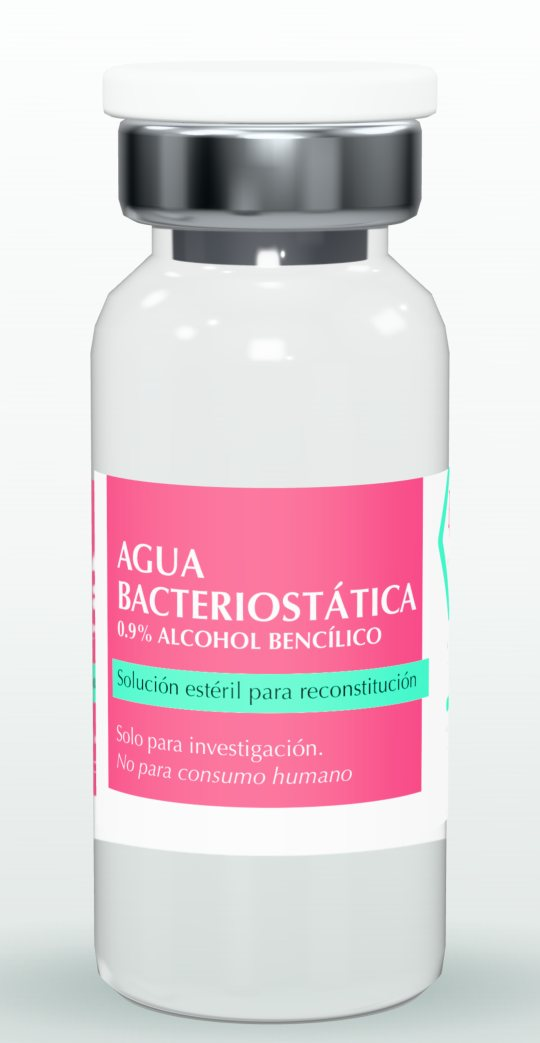
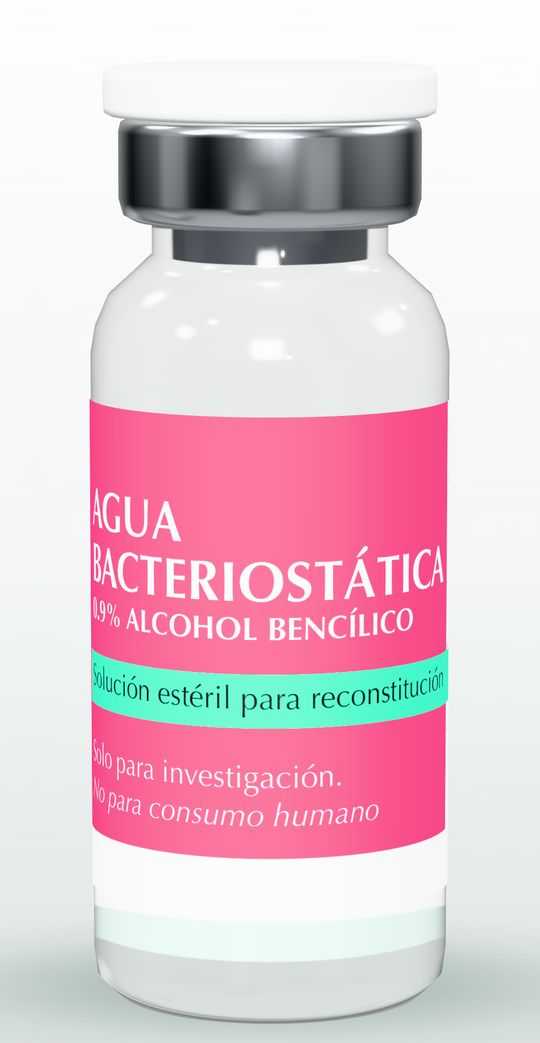
El agua bacteriostática, en su vial de 3 ml
El render la dibujaba en vial de 10 ml, a escala 1.38, por un supuesto que
el inventario de la tienda desmiente: el producto vivo es
`agua-bacteriostatica-3ml`. Pasa a escala 1.0, que es el mismo vidrio de
16 × 39 mm que los péptidos —radio interior 6.9 mm y suelo en y = 3, o sea
4.6 ml a ras y unos 3 ml de llenado nominal—, y con eso queda en su envase
real.

De paso, dos cosas que salieron al mirarlo de cerca:

- **Salía vacío.** Un producto que es una solución no puede renderizarse
  como vidrio hueco. La escena gana un parámetro `ml` y el alto de la
  columna sale de la cuenta y no a ojo: 6.686 mm por mililitro, así que
  3 ml llenan 20.1 mm.

  El material va opaco, que es contraintuitivo para agua. `transmission`
  en three.js se resuelve muestreando un búfer de lo opaco, de modo que un
  líquido transmisivo dentro de un vidrio transmisivo sale invisible
  —comprobado: cero píxeles de diferencia contra el render sin líquido—.
  Lo que sí se ve a través del vidrio es lo opaco, que es por lo que la
  torta liofilizada funciona. El agua va entonces opaca pero fría y con
  especular alto, que es lo que la separa de la torta, mate y crema.

  Se ve poco, y es correcto que se vea poco: la etiqueta de 22 mm cubre de
  y = 5 a y = 27 y el menisco queda a y = 23, detrás del papel. Lo que
  asoma es la banda de 2 mm entre la base de la etiqueta y el suelo.

- **La ficha decía «liofilizado · 99 % HPLC»** también para el agua, que no
[…]

Changed region(s): [[0.1481, 0.3682, 0.8296, 0.9204]]

diff --git a/rediseno/mocks/generar-vial-3d.html b/rediseno/mocks/generar-vial-3d.html
@@ -78,6 +78,28 @@ const cake = new THREE.Mesh(
 cake.position.y = 3.0 + 2.75;
 vialG.add(cake);
 
+// ── Líquido, para los productos que vienen en solución y no liofilizados.
+// El interior del vial es un cilindro de radio 6.9 con el suelo en y = 3, así
+// que el alto de la columna sale de la cuenta y no a ojo:
+//     h = V / (pi * 6.9^2) = 6.686 mm por mililitro
+// El radio va 0.03 mm por dentro de la pared para que no pelee con el vidrio.
+const R_INT = 6.9, Y_SUELO = 3.0;
+const MM_POR_ML = 1000 / (Math.PI * R_INT * R_INT);
+const liquido = new THREE.Mesh(
+  new THREE.CylinderGeometry(R_INT - 0.03, R_INT - 0.03, 1, 96),
+  // Opaco a propósito. three.js resuelve `transmission` muestreando un búfer
+  // de lo opaco, así que un líquido transmisivo dentro del vidrio transmisivo
+  // sale invisible: comprobado, cero píxeles de diferencia. Lo que sí se ve a
+  // través del vidrio es lo opaco —por eso la torta liofilizada funciona—, así
+  // que el agua va opaca pero fría y con brillo especular alto, que es lo que
+  // la separa de la torta (mate y crema).
+  new THREE.MeshPhysicalMaterial({
+    color: 0xe6f4f0, metalness: 0, roughness: 0.04,
+    clearcoat: 1, clearcoatRoughness: 0.02, ior: 1.333, envMapIntensity: 1.7,
+  }));
+liquido.visible = false;
+vialG.add(liquido);
+
 // ── Tapón de bromobutilo
 const stop = new THREE.Mesh(
   new THREE.CylinderGeometry(3.42, 3.42, 6.0, 64),
@@ -151,7 +173,7 @@ const rim = new THREE.DirectionalLight(0xffffff, 1.3); rim.position.set(46, 30, 
 const fill = new THREE.DirectionalLight(0xffffff, 0.7); fill.position.set(14, 12, 64); scene.add(fill);
 
 const LW_MM = 43, R_BASE = 8.06;
-window.__vial = async (url, conTorta, u0, escala) => {
+window.__vial = async (url, conTorta, u0, escala, ml) => {
   const s = escala || 1;
   vialG.scale.setScalar(s);
   const R = R_BASE * s, arco = LW_MM / R;
@@ -168,6 +190,13 @@ window.__vial = async (url, conTorta, u0, escala) => {
   label.material.map = t;
   label.material.needsUpdate = true;
   cake.visible = conTorta !== false;   // el agua bacteriostática no lleva torta
+  // los productos en solución llevan su volumen real dentro, no vidrio vacío
+  liquido.visible = ml > 0;
+  if (ml > 0) {
+    const h = ml * MM_POR_ML;
+    liquido.scale.set(1, h, 1);
+    liquido.position.y = Y_SUELO + h / 2;
+  }
   // el título no está en el mismo sitio en todas las etiquetas: se gira la
   // etiqueta para dejarlo al frente en vez de asumir u=0.25 para todas
 

diff --git a/rediseno/home.html b/rediseno/home.html
@@ -781,8 +781,12 @@ footer{border-top:1px solid var(--linea-2);background:var(--carbon);padding-bloc
         '</div>' +
         '<div class="cuerpo"><h3>' + p.nombre + '</h3>' +
           '<div class="sku">SKU ' + (p.sku || "—") + '</div></div>' +
-        '<div class="specs"><span>' + (p.frasco ? "suplemento" : "liofilizado") + '</span>' +
-          '<span>·</span><span>' + (p.frasco ? "cápsulas" : "99 % HPLC") + '</span>' +
+        '<div class="specs"><span>' +
+          (p.frasco ? "suplemento" : p.ml ? "solución" : "liofilizado") + '</span>' +
+          '<span>·</span><span>' +
+          /* el agua bacteriostática no es un liofilizado ni tiene pureza por
+             HPLC: lo que la describe es su volumen */
+          (p.frasco ? "cápsulas" : p.ml ? p.ml + " ml" : "99 % HPLC") + '</span>' +
           '<span>·</span><span>' + (agotado ? "sin existencia" : "en existencia") + '</span></div>' +
         '<div class="compra"><span class="precio">' + mxn(p.precio) + '<small>MXN</small></span>' +
           '<button class="add" type="button"' + (agotado ? ' disabled' : '') + '>' +

diff --git a/rediseno/mocks/lote.js b/rediseno/mocks/lote.js
@@ -16,7 +16,8 @@ const catalogo = JSON.parse(fs.readFileSync('catalogo.json', 'utf8'));
   for (let i = 0; i < catalogo.length; i++) {
     const c = catalogo[i];
     const t0 = Date.now();
-    await p.evaluate(([u, t, r, e]) => window.__vial(u, t, r, e), [c.archivo, !c.agua, c.u0, c.escala]);
+    await p.evaluate(([u, t, r, e, m]) => window.__vial(u, t, r, e, m),
+                     [c.archivo, !c.agua, c.u0, c.escala, c.ml]);
     const salida = 'vial-' + c.archivo.replace(/^label_/, '').replace(/\.png$/, '') + '.png';
     await p.locator('#c').screenshot({ path: salida });
     console.log(`[${i + 1}/${catalogo.length}] ${salida}  (${Math.round((Date.now() - t0) / 1000)}s)`);

diff --git a/rediseno/js/catalogo-pys.js b/rediseno/js/catalogo-pys.js
@@ -305,6 +305,7 @@ const PYS_PRODUCTOS = [
   "cat": "Muscular",
   "img": "img/vial-agua-bacteriostatica-0-9-alcohol-bencilico.jpg",
   "frasco": false,
+  "ml": 3,
   "precio": 180
  },
  {

diff --git a/rediseno/mocks/README.md b/rediseno/mocks/README.md
@@ -30,8 +30,11 @@ que deja el bloque de texto de frente.
    `computeVertexNormals()` sobre las geometrías torneadas. `LatheGeometry` ya
    resuelve el empalme y esa llamada lo rompe. Se quitó.
 2. **Vial demasiado corto.** Con 35 mm de alto, una etiqueta de 22 mm se comía
-   toda la pared recta y quedaba pegada a la base. El vial pasa a 39 mm (5 ml),
-   con 27 mm de pared recta: sobran 3 mm de vidrio abajo y 2 arriba.
+   toda la pared recta y quedaba pegada a la base. El vial pasa a 39 mm, con
+   27 mm de pared recta: sobran 3 mm de vidrio abajo y 2 arriba. Con radio
+   interior de 6.9 mm y suelo en y = 3, eso da 4.6 ml a ras y unos 3 ml de
+   llenado nominal: el mismo vidrio sirve para los péptidos liofilizados y
+   para el agua bacteriostática de 3 ml.
 3. **Fondo oscuro.** El vidrio transparente sobre negro lee negro, por
    definición: no hay nada que transmitir. Las fotos de la competencia están
    sobre blanco, y por eso su vidrio se ve limpio. El estudio pasó a claro y con
@@ -59,6 +62,25 @@ y el render sale a 2000 × 2880 para que aguante el zoom.
 **La cámara tiene que ir por encima del sello** (y 43 contra los 37.3 de la tapa).
 Por debajo se ve el engaste desde abajo y el botón desaparece tras el borde: eso,
 y no el modelado, era lo que hacía que la tapa se viera rara.
+
+### El líquido
+
+Los productos en solución llevan su volumen dentro, no vidrio vacío. El alto de
+la columna sale de la cuenta y no a ojo: con radio interior de 6.9 mm y el suelo
+en y = 3, son **6.686 mm por mililitro**. El agua bacteriostática de 3 ml llena
+20.1 mm, o sea poco más de la mitad de la pared recta.
+
+El material va **opaco**, que es contraintuitivo para agua. `transmission` en
+three.js se resuelve muestreando un búfer de lo opaco, así que un líquido
+transmisivo dentro de un vidrio transmisivo sale invisible: comprobado, cero
+píxeles de diferencia entre el render con líquido y sin él. Lo que sí se ve a
+través del vidrio es lo opaco —por eso la torta liofilizada funciona—, así que
+el agua va opaca pero fría y con especular alto, que es lo que la separa de la
+torta, mate y crema.
+
+Se ve poco, y es correcto que se vea poco: la etiqueta de 22 mm cubre de y = 5
+a y = 27 y el menisco queda a y = 23, detrás del papel. Lo que asoma es la
+banda de 2 mm entre la base de la etiqueta y el suelo de vidrio.
 
 ### Lo que este render todavía no da
 
@@ -118,8 +140,15 @@ suelo de 0.25 porque por debajo se asoma la costura por el canto izquierdo.
    texto ocupa más de 150° de arco sobre un perímetro de 50 mm, así que los
    extremos caen en el canto y no se leen de frente. No es fallo del render: en
    el vial físico pasa igual. Se arregla con tipografía más chica, bloque más
-   estrecho, o vial de mayor diámetro — el agua bacteriostática de hecho suele
-   ir en vial de 10 ml, donde el mismo texto sí entraría holgado.
+   estrecho, o vial de mayor diámetro.
+
+   El caso del agua bacteriostática estuvo mal diagnosticado un tiempo: se
+   supuso que iba en vial de 10 ml —donde el mismo texto entra holgado— y se
+   renderizó a escala 1.38. El inventario de la tienda dice otra cosa: el
+   producto vivo es `agua-bacteriostatica-3ml`, así que va en el mismo vidrio
+   de 16 × 39 mm que los péptidos y el título **no cabe** de frente. El render
+   ya está corregido a su envase real; la que sigue sin caber es la
+   tipografía, y eso es cosa del archivo de imprenta.
 
 ## Colores de marca, tomados de los PDF de imprenta
 No son aproximación: son los valores vectoriales del archivo.
